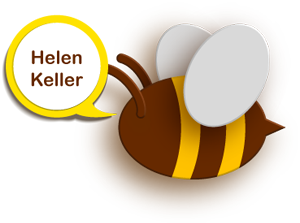
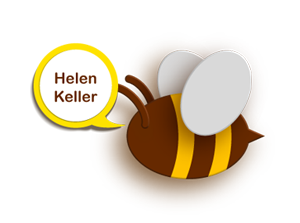
more bee work

diff --git a/new.html b/new.html
@@ -105,6 +105,10 @@ h1.brother {
 	color: #5e2f00;
 	font-size: 125px;
 }
+    .custom-container {
+        max-width: 900px;
+        margin: 0 auto;
+    }
 .page {
 	background: #f9cf01;
 	background: -webkit-radial-gradient(center, ellipse cover, #f9cf01 60%, #e08f00 100%);
@@ -112,7 +116,7 @@ h1.brother {
 }
 .honeycomb {
 	background: transparent url("honeycomb.png") top center repeat;
-	height: 50vh;
+
 }
 .honey-drip {
 	background: transparent url("honey.png") top center repeat-x;
@@ -124,6 +128,12 @@ h1.brother {
 	padding: 60px 0;
 }
 .item {
+    padding: 0 10px;
+}
+    .bee-wrapper {
+	display: flex;
+	justify-content: space-between;
+	padding: 60px 0;
 }
 .link-wrapper {
 	display: flex;
@@ -360,7 +370,7 @@ height="0" width="0" style="display:none;visibility:hidden"></iframe>
           <div class="item-wrapper">
             <div class="item"><img src="alone.png" alt=""></div>
             <div class="item">
-              <h1 class="brother">Oh, Honey!</h1>
+              <h1 class="brother text-nowrap">Oh, Honey!</h1>
             </div>
             <div class="item"><img src="together.png" alt=""></div>
           </div>
@@ -371,6 +381,13 @@ height="0" width="0" style="display:none;visibility:hidden"></iframe>
             Fairy Tale Ball</a> <a href="camp-dcl/" class="link">All Abuzz for<br>
             Summer Camp</a><a href="https://douglascountylibraries.evanced.info/signup/list?nomobile=1&ag=&kw=coffee+chat+tuesday&lib=ALL&nd=90" target="_blank" class="link">Join the<br>
             Coffee Chat</a></div>
+        </div>
+                  <div class="custom-container">
+          <div class="bee-wrapper">
+            <div class="bee"><img src="nothing.png" alt=""></div>
+
+            <div class="bee"><img src="helen.png" alt=""></div>
+          </div>
         </div>
       </div>
     </div>
